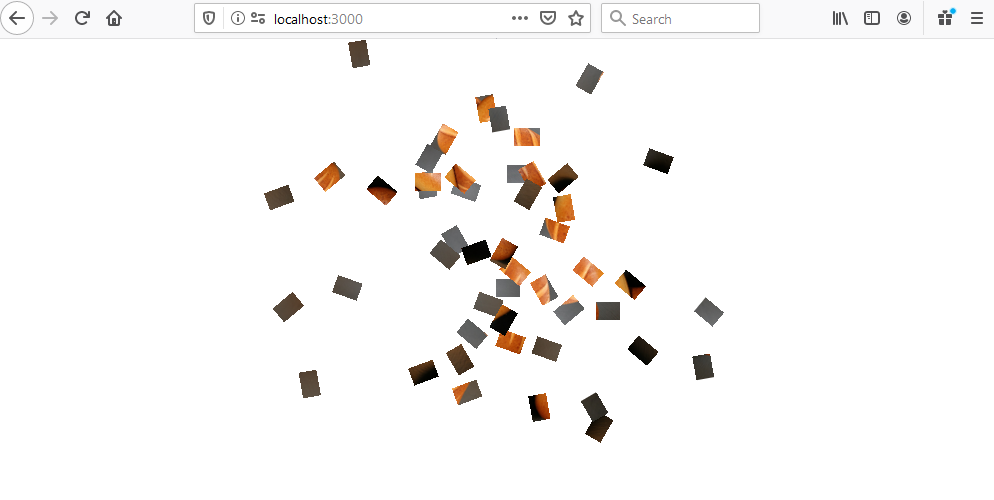
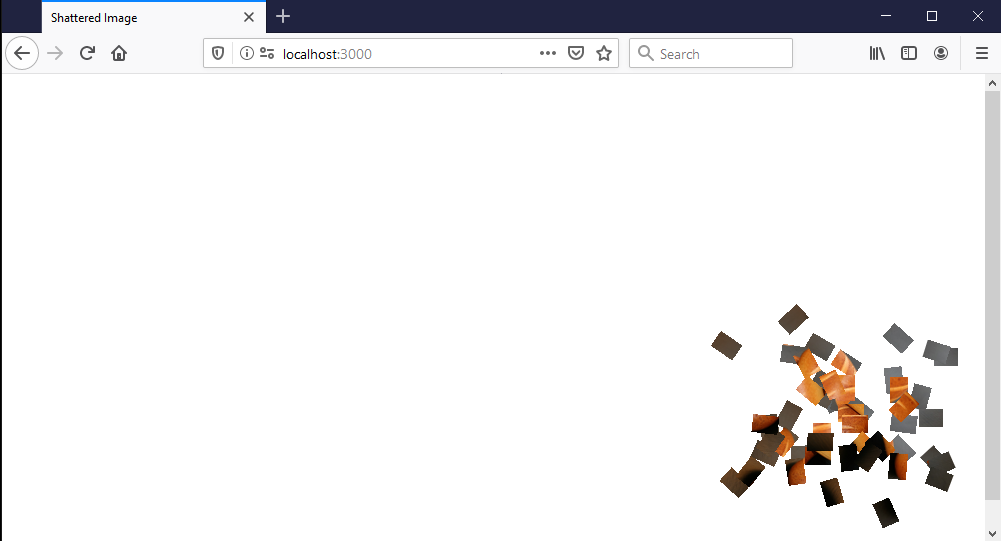
update

diff --git a/src/ShatterImage.js b/src/ShatterImage.js
@@ -1,7 +1,7 @@
 import React, { useEffect, useState, useRef } from 'react';
 import I1 from './images/bread.jpg'
 
-export default function SliceImage({ numberOfSlices = 7, initialH = 120 }) {
+export default function ShatterImage({ numberOfSlices = 7, initialH = 120 }) {
     const [loaded, setLoaded] = useState(false);
     const [imgSize, setImgSize] = useState([]);
     const [transTime, setTransTime] = useState(4);

diff --git a/public/index.html b/public/index.html
@@ -24,7 +24,7 @@
       work correctly both with client-side routing and a non-root public URL.
       Learn how to configure a non-root public URL by running `npm run build`.
     -->
-    <title>React App</title>
+    <title>Shattered Image</title>
   </head>
   <body>
     <noscript>You need to enable JavaScript to run this app.</noscript>

diff --git a/src/App.js b/src/App.js
@@ -1,9 +1,9 @@
 import React from 'react';
-import SliceImage from './SliceImage'
+import ShatterImage from './ShatterImage'
 function App() {
 
   return (
-    <SliceImage />
+    <ShatterImage />
 );
 }
 

diff --git a/README.md b/README.md
@@ -1,27 +1,24 @@
-## Shattered Image Effect with React
-This is a fun project to fragmentize an image, scatter the image parts, then restore the fragments back to a whole image at another position.
+## Shattered Image Effect with React Hook
+It is a tiny(100 lines of code) fun project using React Hook. Basically what it do is fragmentizing an image, scatter the image pieces, then restore the parts back to a whole image at the position of your choice.
 ![1](src/images/1.png)
+Double Click on a point in the browser
 ![2](src/images/2.png)
+Image starts shattering
 ![3](src/images/3.png)
+Image fragments move and rotation randomly toward target point
 ![4](src/images/4.png)
+Parts start converging to the final position
 ![5](src/images/5.png)
-![6](src/images/6.png)
-
-* React is used
-* Only 100 lines of code
-
-![fragments](src/images/fragments.png)
-
-7x7=49 images combined as a whole image
-
+The image is restored as a whole at destination point.
 
 
 ### Basic ideas
 * Create a matrix of *div* elements, each div contains an *img* element
+![fragments](src/images/fragments.png)
 * Use *position: aboslute* to control the position and size of each *div* in the grid
-* Use *transform: translate(x,y)* and *overflow: hidden* to crop images into correct positions so that they can make up a whole image
-* To create shattered image effect, use random number to create different tranlations/rotations for each *div*
-* Use *setTimeout* to wait the scattering finish, then set the transitions of the divs to the same values to restore the fragments to a whole image.
+* Use *transform: translate(x,y)* and *overflow: hidden* of the *div* to crop images into a calculated positions so that they can make up a whole image
+* To generate shattered image effect, use random number to create different tranlations/rotations for each *div*
+* Use *setTimeout* to wait for the scattering to finish, then set all the transitions of the divs to the offset of the target point, this will restore the fragments to a whole image at difference point.
 
 
 
